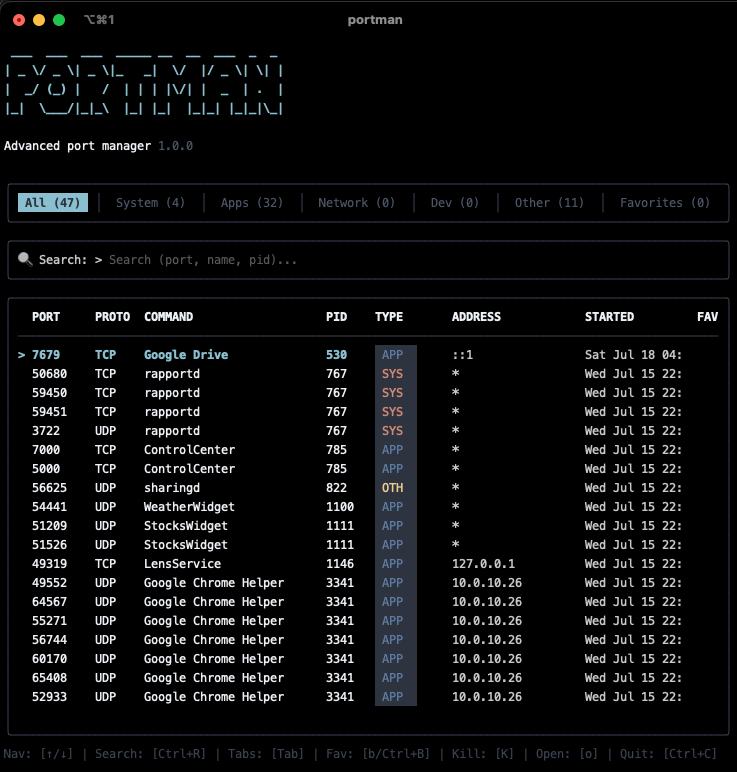
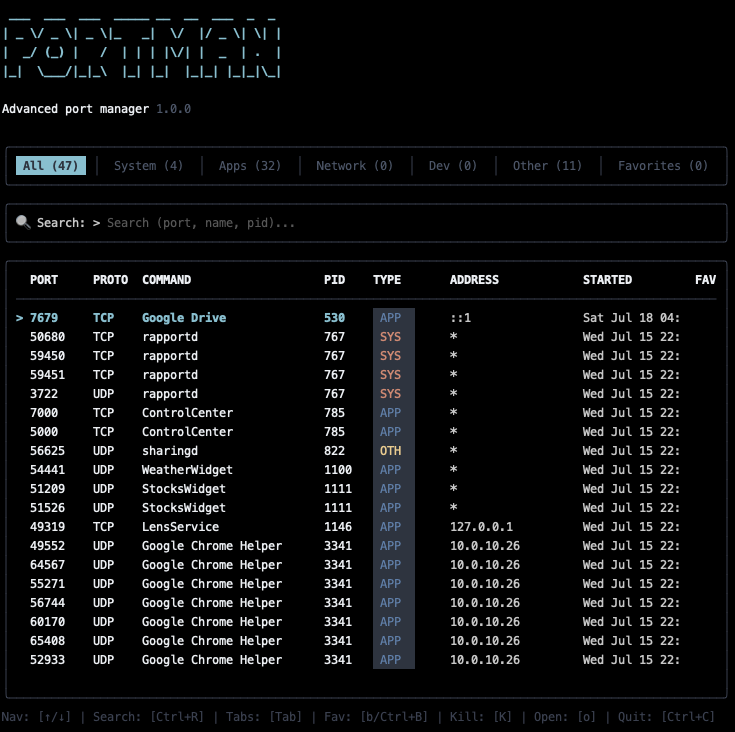
docs: update demo image and README file

diff --git a/README.md b/README.md
@@ -1,4 +1,4 @@
-# Portman 🚀
+# Portman
 
 **Postman manages your requests, Portman manages your ports.**
 